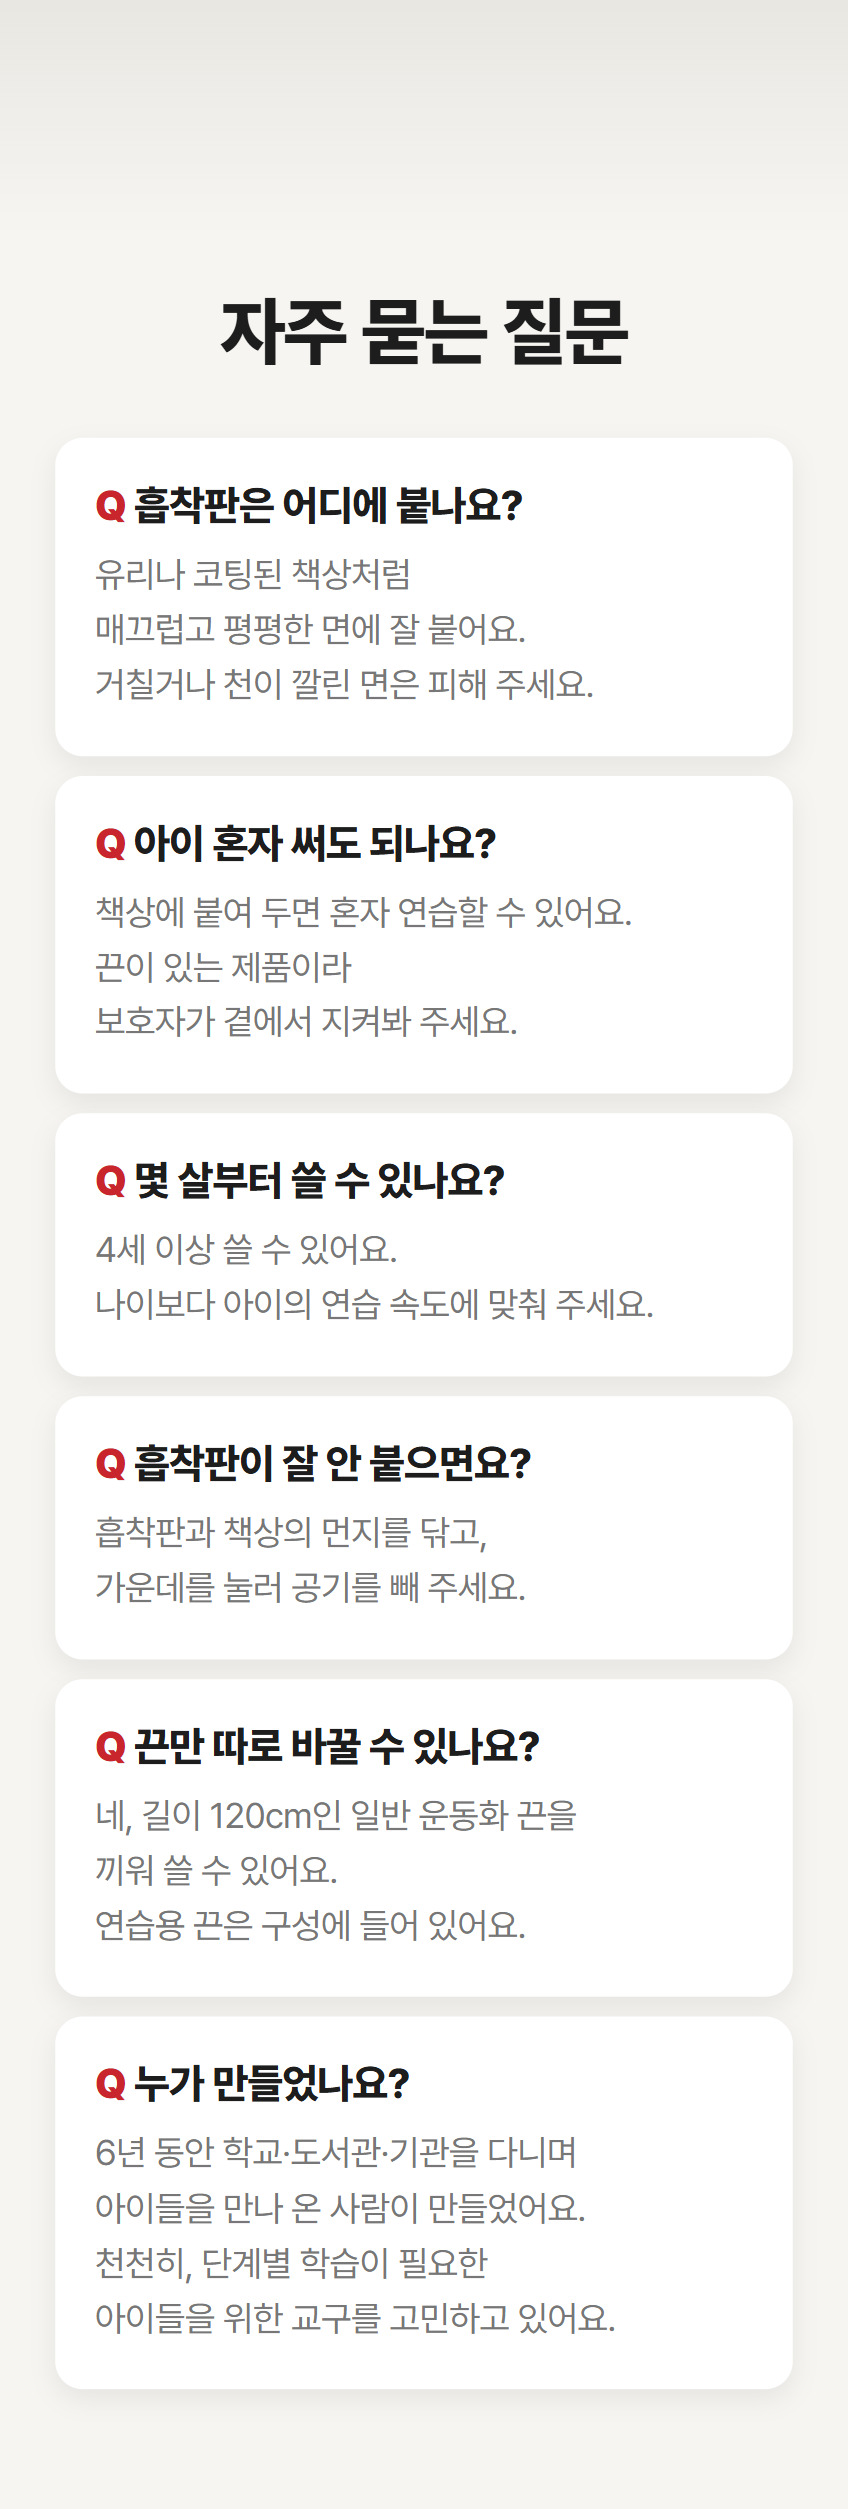
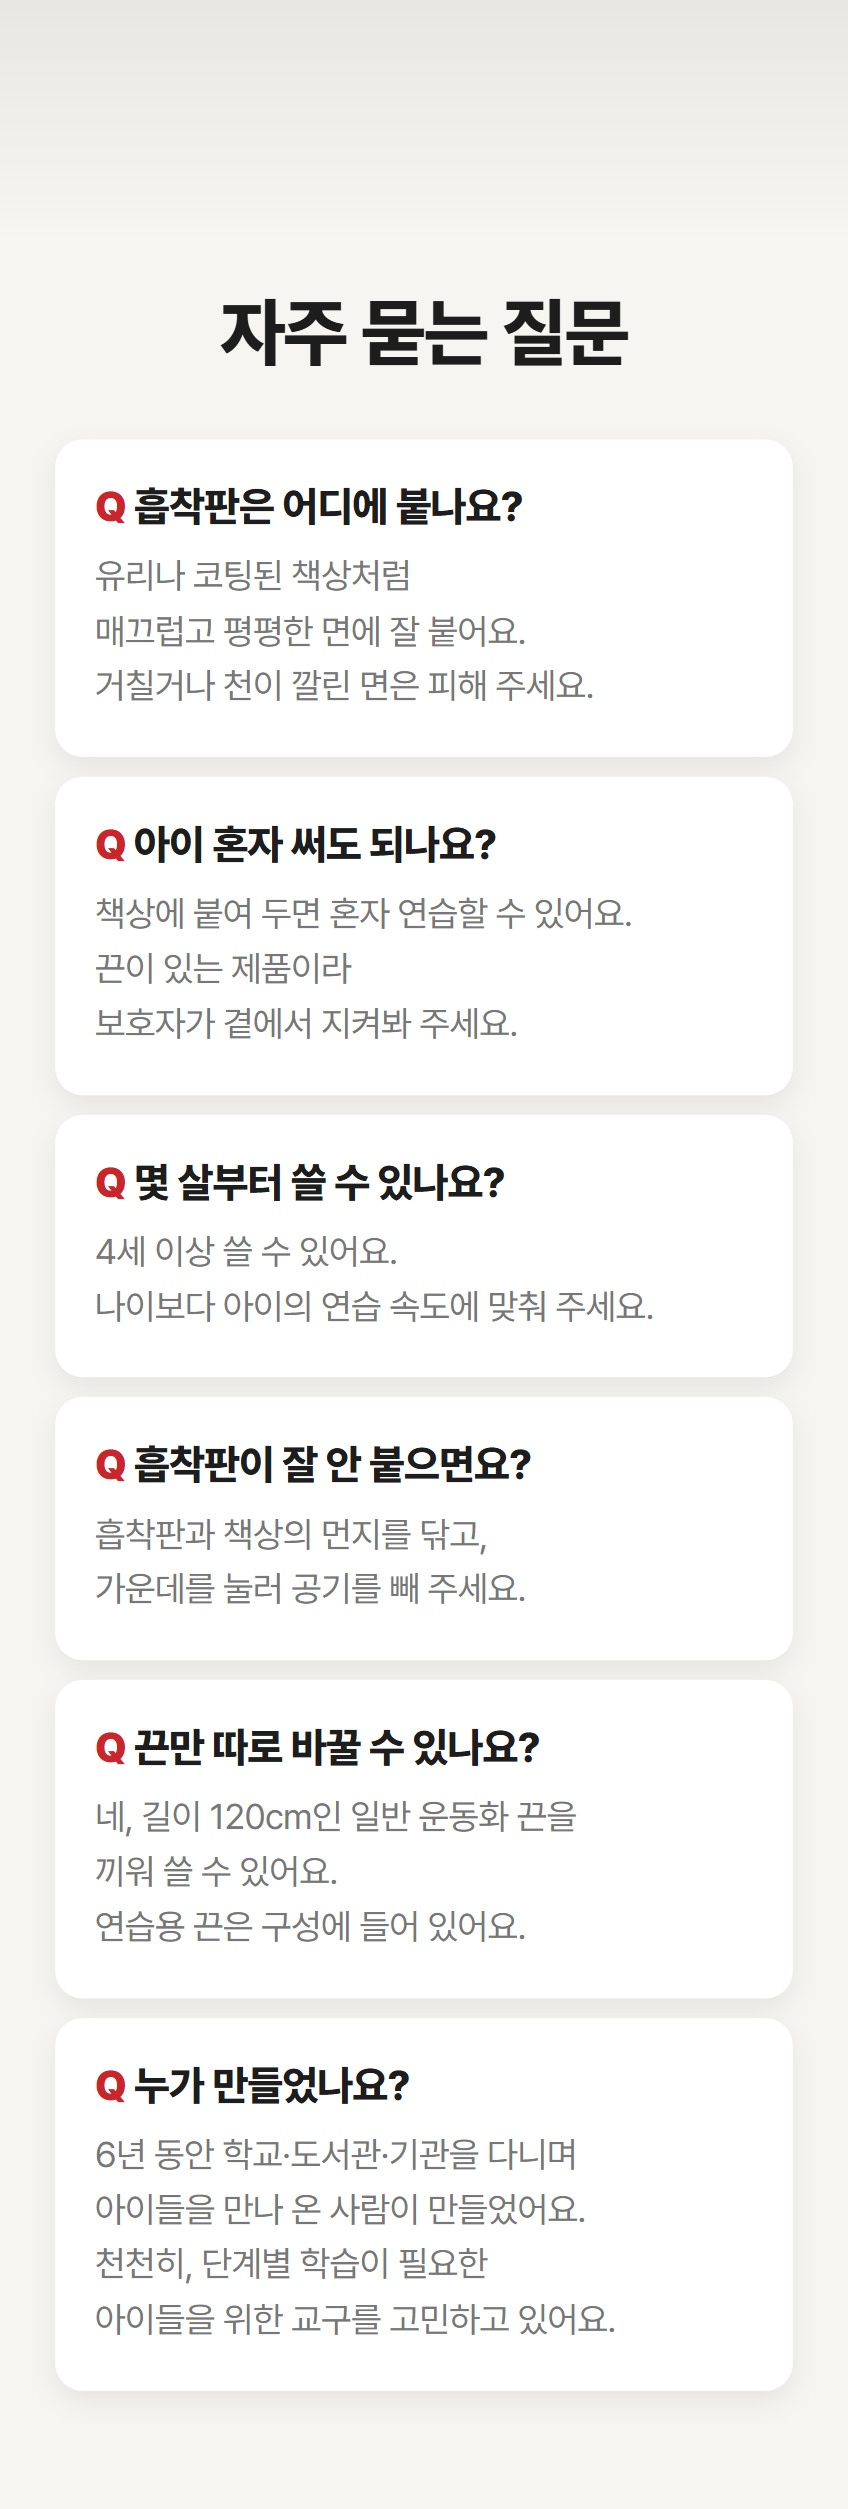
시안 미리보기 갱신 20261111-113129

diff --git a/a/index.html b/a/index.html
@@ -162,7 +162,7 @@
 <div class="toast" id="toast" role="status"></div>
 
 <script>
-  const DATA = {"shoe": {"short": "신발끈 교구", "name": "신발끈 묶기 연습 교구", "store": "나인어클락", "price": "가격 미정", "rows": [["배송", "택배배송 · 배송비 미정"], ["옵션", "1개입 · 2개입"]], "gallery": ["img/shoe/thumb1.jpg", "img/shoe/thumb2.jpg", "img/shoe/thumb3.jpg", "img/shoe/thumb4.jpg"], "spec": "가로 848px · 이미지 15장 (움직이는 그림 3개) · 세로 29,537px", "files": [{"src": "img/shoe/01.gif", "w": 848, "h": 1486}, {"src": "img/shoe/02.jpg", "w": 848, "h": 2784}, {"src": "img/shoe/03.jpg", "w": 848, "h": 2670}, {"src": "img/shoe/04.gif", "w": 848, "h": 613}, {"src": "img/shoe/05.jpg", "w": 848, "h": 2795}, {"src": "img/shoe/06.jpg", "w": 848, "h": 1738}, {"src": "img/shoe/07.jpg", "w": 848, "h": 1763}, {"src": "img/shoe/08.jpg", "w": 848, "h": 1519}, {"src": "img/shoe/09.jpg", "w": 848, "h": 2971}, {"src": "img/shoe/10.gif", "w": 848, "h": 1074}, {"src": "img/shoe/11.jpg", "w": 848, "h": 2098}, {"src": "img/shoe/12.jpg", "w": 848, "h": 1330}, {"src": "img/shoe/13.jpg", "w": 848, "h": 2509}, {"src": "img/shoe/14.jpg", "w": 848, "h": 2461}, {"src": "img/shoe/15.jpg", "w": 848, "h": 1726}]}, "app": {"short": "행복한 마을", "name": "행복한 마을", "store": "나인어클락", "price": "가격 미정", "rows": [["배송", "배송 없음 · 구매 후 이용 링크 발송"]], "gallery": ["img/app/thumb1.jpg", "img/app/thumb2.jpg", "img/app/thumb3.jpg"], "spec": "가로 848px · 이미지 18장 (움직이는 그림 3개) · 세로 33,552px", "files": [{"src": "img/app/01.jpg", "w": 848, "h": 730}, {"src": "img/app/02.gif", "w": 848, "h": 1658}, {"src": "img/app/03.jpg", "w": 848, "h": 2096}, {"src": "img/app/04.jpg", "w": 848, "h": 1446}, {"src": "img/app/05.jpg", "w": 848, "h": 1581}, {"src": "img/app/06.gif", "w": 848, "h": 1533}, {"src": "img/app/07.jpg", "w": 848, "h": 2751}, {"src": "img/app/08.jpg", "w": 848, "h": 2050}, {"src": "img/app/09.gif", "w": 848, "h": 1359}, {"src": "img/app/10.jpg", "w": 848, "h": 1776}, {"src": "img/app/11.jpg", "w": 848, "h": 2325}, {"src": "img/app/12.jpg", "w": 848, "h": 1128}, {"src": "img/app/13.jpg", "w": 848, "h": 2152}, {"src": "img/app/14.jpg", "w": 848, "h": 1994}, {"src": "img/app/15.jpg", "w": 848, "h": 2065}, {"src": "img/app/16.jpg", "w": 848, "h": 2704}, {"src": "img/app/17.jpg", "w": 848, "h": 2543}, {"src": "img/app/18.jpg", "w": 848, "h": 1661}]}};
+  const DATA = {"shoe": {"short": "신발끈 교구", "name": "신발끈 묶기 연습 교구", "store": "나인어클락", "price": "가격 미정", "rows": [["배송", "택배배송 · 배송비 미정"], ["옵션", "1개입 · 2개입"]], "gallery": ["img/shoe/thumb1.jpg", "img/shoe/thumb2.jpg", "img/shoe/thumb3.jpg", "img/shoe/thumb4.jpg"], "spec": "가로 848px · 이미지 15장 (움직이는 그림 3개) · 세로 29,488px", "files": [{"src": "img/shoe/01.gif", "w": 848, "h": 1486}, {"src": "img/shoe/02.jpg", "w": 848, "h": 2784}, {"src": "img/shoe/03.jpg", "w": 848, "h": 2670}, {"src": "img/shoe/04.gif", "w": 848, "h": 613}, {"src": "img/shoe/05.jpg", "w": 848, "h": 2795}, {"src": "img/shoe/06.jpg", "w": 848, "h": 1738}, {"src": "img/shoe/07.jpg", "w": 848, "h": 1763}, {"src": "img/shoe/08.jpg", "w": 848, "h": 1519}, {"src": "img/shoe/09.jpg", "w": 848, "h": 2971}, {"src": "img/shoe/10.gif", "w": 848, "h": 1074}, {"src": "img/shoe/11.jpg", "w": 848, "h": 2049}, {"src": "img/shoe/12.jpg", "w": 848, "h": 1330}, {"src": "img/shoe/13.jpg", "w": 848, "h": 2509}, {"src": "img/shoe/14.jpg", "w": 848, "h": 2462}, {"src": "img/shoe/15.jpg", "w": 848, "h": 1725}]}, "app": {"short": "행복한 마을", "name": "행복한 마을", "store": "나인어클락", "price": "가격 미정", "rows": [["배송", "배송 없음 · 구매 후 이용 링크 발송"]], "gallery": ["img/app/thumb1.jpg", "img/app/thumb2.jpg", "img/app/thumb3.jpg"], "spec": "가로 848px · 이미지 18장 (움직이는 그림 3개) · 세로 33,552px", "files": [{"src": "img/app/01.jpg", "w": 848, "h": 730}, {"src": "img/app/02.gif", "w": 848, "h": 1658}, {"src": "img/app/03.jpg", "w": 848, "h": 2096}, {"src": "img/app/04.jpg", "w": 848, "h": 1446}, {"src": "img/app/05.jpg", "w": 848, "h": 1581}, {"src": "img/app/06.gif", "w": 848, "h": 1533}, {"src": "img/app/07.jpg", "w": 848, "h": 2751}, {"src": "img/app/08.jpg", "w": 848, "h": 2050}, {"src": "img/app/09.gif", "w": 848, "h": 1359}, {"src": "img/app/10.jpg", "w": 848, "h": 1776}, {"src": "img/app/11.jpg", "w": 848, "h": 2325}, {"src": "img/app/12.jpg", "w": 848, "h": 1128}, {"src": "img/app/13.jpg", "w": 848, "h": 2152}, {"src": "img/app/14.jpg", "w": 848, "h": 1994}, {"src": "img/app/15.jpg", "w": 848, "h": 2065}, {"src": "img/app/16.jpg", "w": 848, "h": 2704}, {"src": "img/app/17.jpg", "w": 848, "h": 2543}, {"src": "img/app/18.jpg", "w": 848, "h": 1661}]}};
   const VARIANT = {"cur": "a", "home": "../", "items": [{"k": "a", "label": "A안", "href": "../a/"}, {"k": "b", "label": "B안", "href": "../b/"}]};
   const KEYS = Object.keys(DATA);
   const col = document.getElementById("col");

diff --git a/b/index.html b/b/index.html
@@ -162,7 +162,7 @@
 <div class="toast" id="toast" role="status"></div>
 
 <script>
-  const DATA = {"shoe": {"short": "신발끈 교구", "name": "신발끈 묶기 연습 교구", "store": "나인어클락", "price": "가격 미정", "rows": [["배송", "택배배송 · 배송비 미정"], ["옵션", "1개입 · 2개입"]], "gallery": ["img/shoe/thumb1.jpg", "img/shoe/thumb2.jpg", "img/shoe/thumb3.jpg", "img/shoe/thumb4.jpg"], "spec": "가로 848px · 이미지 15장 (움직이는 그림 3개) · 세로 29,537px", "files": [{"src": "img/shoe/01.gif", "w": 848, "h": 1486}, {"src": "img/shoe/02.jpg", "w": 848, "h": 2784}, {"src": "img/shoe/03.jpg", "w": 848, "h": 2670}, {"src": "img/shoe/04.gif", "w": 848, "h": 613}, {"src": "img/shoe/05.jpg", "w": 848, "h": 2795}, {"src": "img/shoe/06.jpg", "w": 848, "h": 1738}, {"src": "img/shoe/07.jpg", "w": 848, "h": 1763}, {"src": "img/shoe/08.jpg", "w": 848, "h": 1519}, {"src": "img/shoe/09.jpg", "w": 848, "h": 2971}, {"src": "img/shoe/10.gif", "w": 848, "h": 1074}, {"src": "img/shoe/11.jpg", "w": 848, "h": 2098}, {"src": "img/shoe/12.jpg", "w": 848, "h": 1330}, {"src": "img/shoe/13.jpg", "w": 848, "h": 2509}, {"src": "img/shoe/14.jpg", "w": 848, "h": 2461}, {"src": "img/shoe/15.jpg", "w": 848, "h": 1726}]}, "app": {"short": "행복한 마을", "name": "행복한 마을", "store": "나인어클락", "price": "가격 미정", "rows": [["배송", "배송 없음 · 구매 후 이용 링크 발송"]], "gallery": ["img/app/thumb1.jpg", "img/app/thumb2.jpg", "img/app/thumb3.jpg"], "spec": "가로 848px · 이미지 18장 (움직이는 그림 3개) · 세로 33,552px", "files": [{"src": "img/app/01.jpg", "w": 848, "h": 730}, {"src": "img/app/02.gif", "w": 848, "h": 1658}, {"src": "img/app/03.jpg", "w": 848, "h": 2096}, {"src": "img/app/04.jpg", "w": 848, "h": 1446}, {"src": "img/app/05.jpg", "w": 848, "h": 1581}, {"src": "img/app/06.gif", "w": 848, "h": 1533}, {"src": "img/app/07.jpg", "w": 848, "h": 2751}, {"src": "img/app/08.jpg", "w": 848, "h": 2050}, {"src": "img/app/09.gif", "w": 848, "h": 1359}, {"src": "img/app/10.jpg", "w": 848, "h": 1776}, {"src": "img/app/11.jpg", "w": 848, "h": 2325}, {"src": "img/app/12.jpg", "w": 848, "h": 1128}, {"src": "img/app/13.jpg", "w": 848, "h": 2152}, {"src": "img/app/14.jpg", "w": 848, "h": 1994}, {"src": "img/app/15.jpg", "w": 848, "h": 2065}, {"src": "img/app/16.jpg", "w": 848, "h": 2704}, {"src": "img/app/17.jpg", "w": 848, "h": 2543}, {"src": "img/app/18.jpg", "w": 848, "h": 1661}]}};
+  const DATA = {"shoe": {"short": "신발끈 교구", "name": "신발끈 묶기 연습 교구", "store": "나인어클락", "price": "가격 미정", "rows": [["배송", "택배배송 · 배송비 미정"], ["옵션", "1개입 · 2개입"]], "gallery": ["img/shoe/thumb1.jpg", "img/shoe/thumb2.jpg", "img/shoe/thumb3.jpg", "img/shoe/thumb4.jpg"], "spec": "가로 848px · 이미지 15장 (움직이는 그림 3개) · 세로 29,488px", "files": [{"src": "img/shoe/01.gif", "w": 848, "h": 1486}, {"src": "img/shoe/02.jpg", "w": 848, "h": 2784}, {"src": "img/shoe/03.jpg", "w": 848, "h": 2670}, {"src": "img/shoe/04.gif", "w": 848, "h": 613}, {"src": "img/shoe/05.jpg", "w": 848, "h": 2795}, {"src": "img/shoe/06.jpg", "w": 848, "h": 1738}, {"src": "img/shoe/07.jpg", "w": 848, "h": 1763}, {"src": "img/shoe/08.jpg", "w": 848, "h": 1519}, {"src": "img/shoe/09.jpg", "w": 848, "h": 2971}, {"src": "img/shoe/10.gif", "w": 848, "h": 1074}, {"src": "img/shoe/11.jpg", "w": 848, "h": 2049}, {"src": "img/shoe/12.jpg", "w": 848, "h": 1330}, {"src": "img/shoe/13.jpg", "w": 848, "h": 2509}, {"src": "img/shoe/14.jpg", "w": 848, "h": 2462}, {"src": "img/shoe/15.jpg", "w": 848, "h": 1725}]}, "app": {"short": "행복한 마을", "name": "행복한 마을", "store": "나인어클락", "price": "가격 미정", "rows": [["배송", "배송 없음 · 구매 후 이용 링크 발송"]], "gallery": ["img/app/thumb1.jpg", "img/app/thumb2.jpg", "img/app/thumb3.jpg"], "spec": "가로 848px · 이미지 18장 (움직이는 그림 3개) · 세로 33,552px", "files": [{"src": "img/app/01.jpg", "w": 848, "h": 730}, {"src": "img/app/02.gif", "w": 848, "h": 1658}, {"src": "img/app/03.jpg", "w": 848, "h": 2096}, {"src": "img/app/04.jpg", "w": 848, "h": 1446}, {"src": "img/app/05.jpg", "w": 848, "h": 1581}, {"src": "img/app/06.gif", "w": 848, "h": 1533}, {"src": "img/app/07.jpg", "w": 848, "h": 2751}, {"src": "img/app/08.jpg", "w": 848, "h": 2050}, {"src": "img/app/09.gif", "w": 848, "h": 1359}, {"src": "img/app/10.jpg", "w": 848, "h": 1776}, {"src": "img/app/11.jpg", "w": 848, "h": 2325}, {"src": "img/app/12.jpg", "w": 848, "h": 1128}, {"src": "img/app/13.jpg", "w": 848, "h": 2152}, {"src": "img/app/14.jpg", "w": 848, "h": 1994}, {"src": "img/app/15.jpg", "w": 848, "h": 2065}, {"src": "img/app/16.jpg", "w": 848, "h": 2704}, {"src": "img/app/17.jpg", "w": 848, "h": 2543}, {"src": "img/app/18.jpg", "w": 848, "h": 1661}]}};
   const VARIANT = {"cur": "b", "home": "../", "items": [{"k": "a", "label": "A안", "href": "../a/"}, {"k": "b", "label": "B안", "href": "../b/"}]};
   const KEYS = Object.keys(DATA);
   const col = document.getElementById("col");

diff --git a/index.html b/index.html
@@ -1,7 +1,7 @@
 <!doctype html>
 <html lang="ko">
 <head>
-<meta name="sian-build" content="20261111-104804">
+<meta name="sian-build" content="20261111-113129">
 <meta charset="utf-8">
 <meta name="viewport" content="width=device-width, initial-scale=1">
 <meta name="robots" content="noindex, nofollow">
